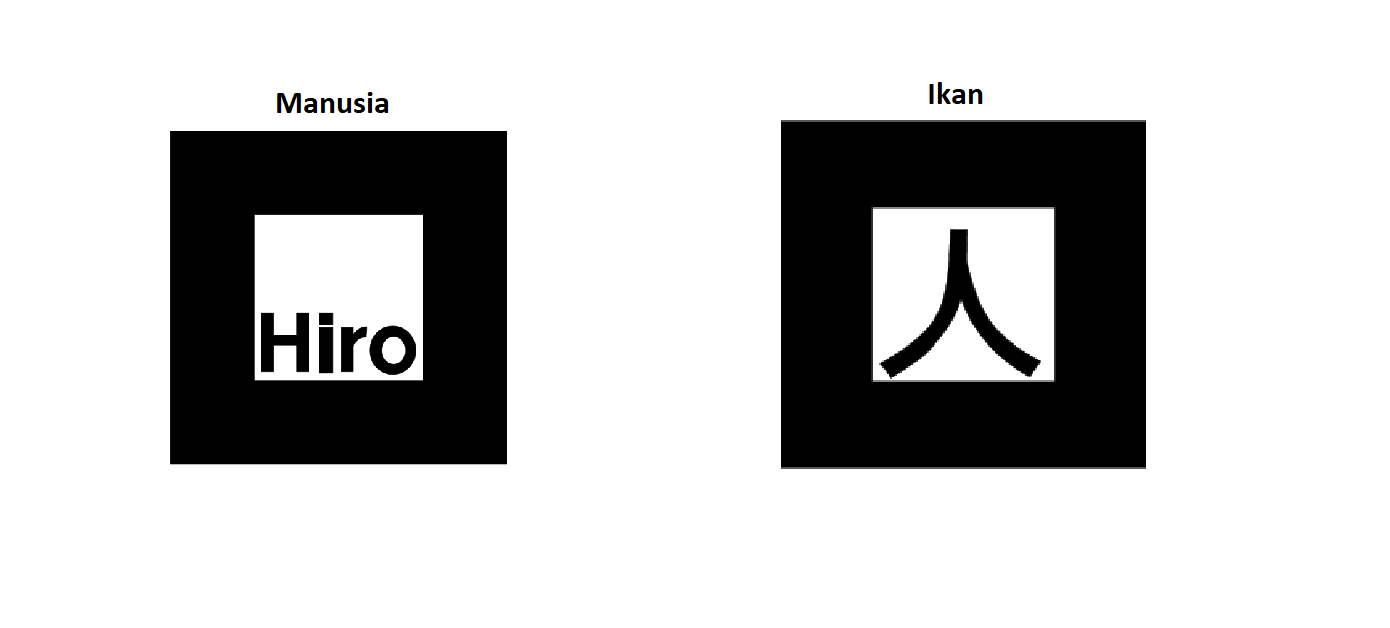
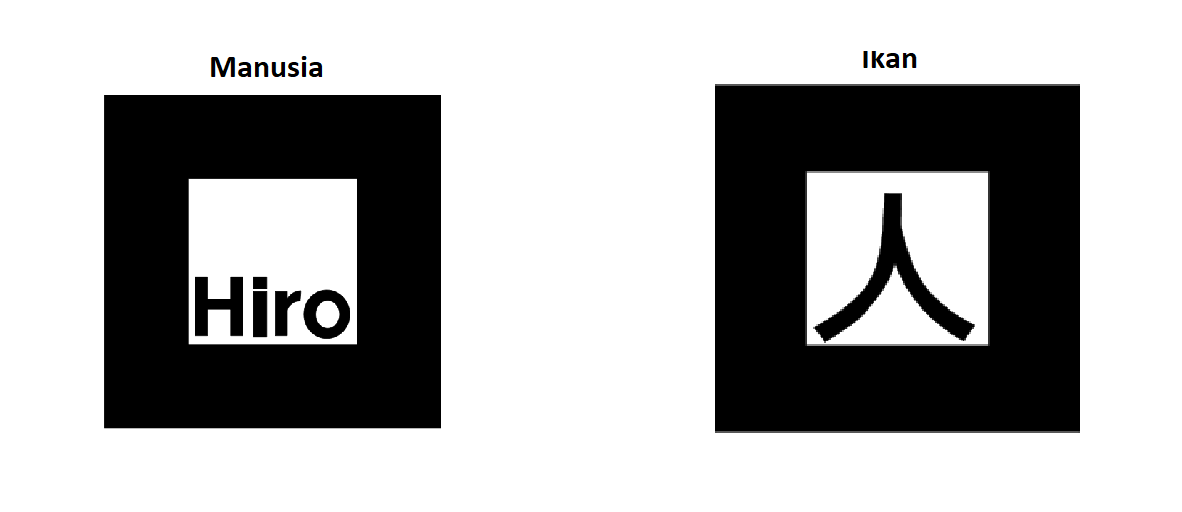
docs: fix  paper image

Changed region(s): [[0.5482, 0.0938, 0.9137, 0.8438], [0.0609, 0.0938, 0.3959, 0.8438], [0.1523, 0.3438, 0.3046, 0.6875]]

diff --git a/README.md b/README.md
@@ -16,6 +16,6 @@ Tujuan utama dari aplikasi ini adalah __tentunya untuk proses belajar saya sekal
 - Setelah aplikasi berjalan lancar, silahkan scan/arahkan kamera device pada marker dibawah ini untuk melihat 3D Model pada aplikasi
 
 #### Marker Hiro & Kanji
-<img src="assets/paper.png" alt="Marker Hiro" width="200"/>
+<img src="assets/paper.png" alt="Image Paper" width="500"/>
 
 ### Tampilan Aplikasi
